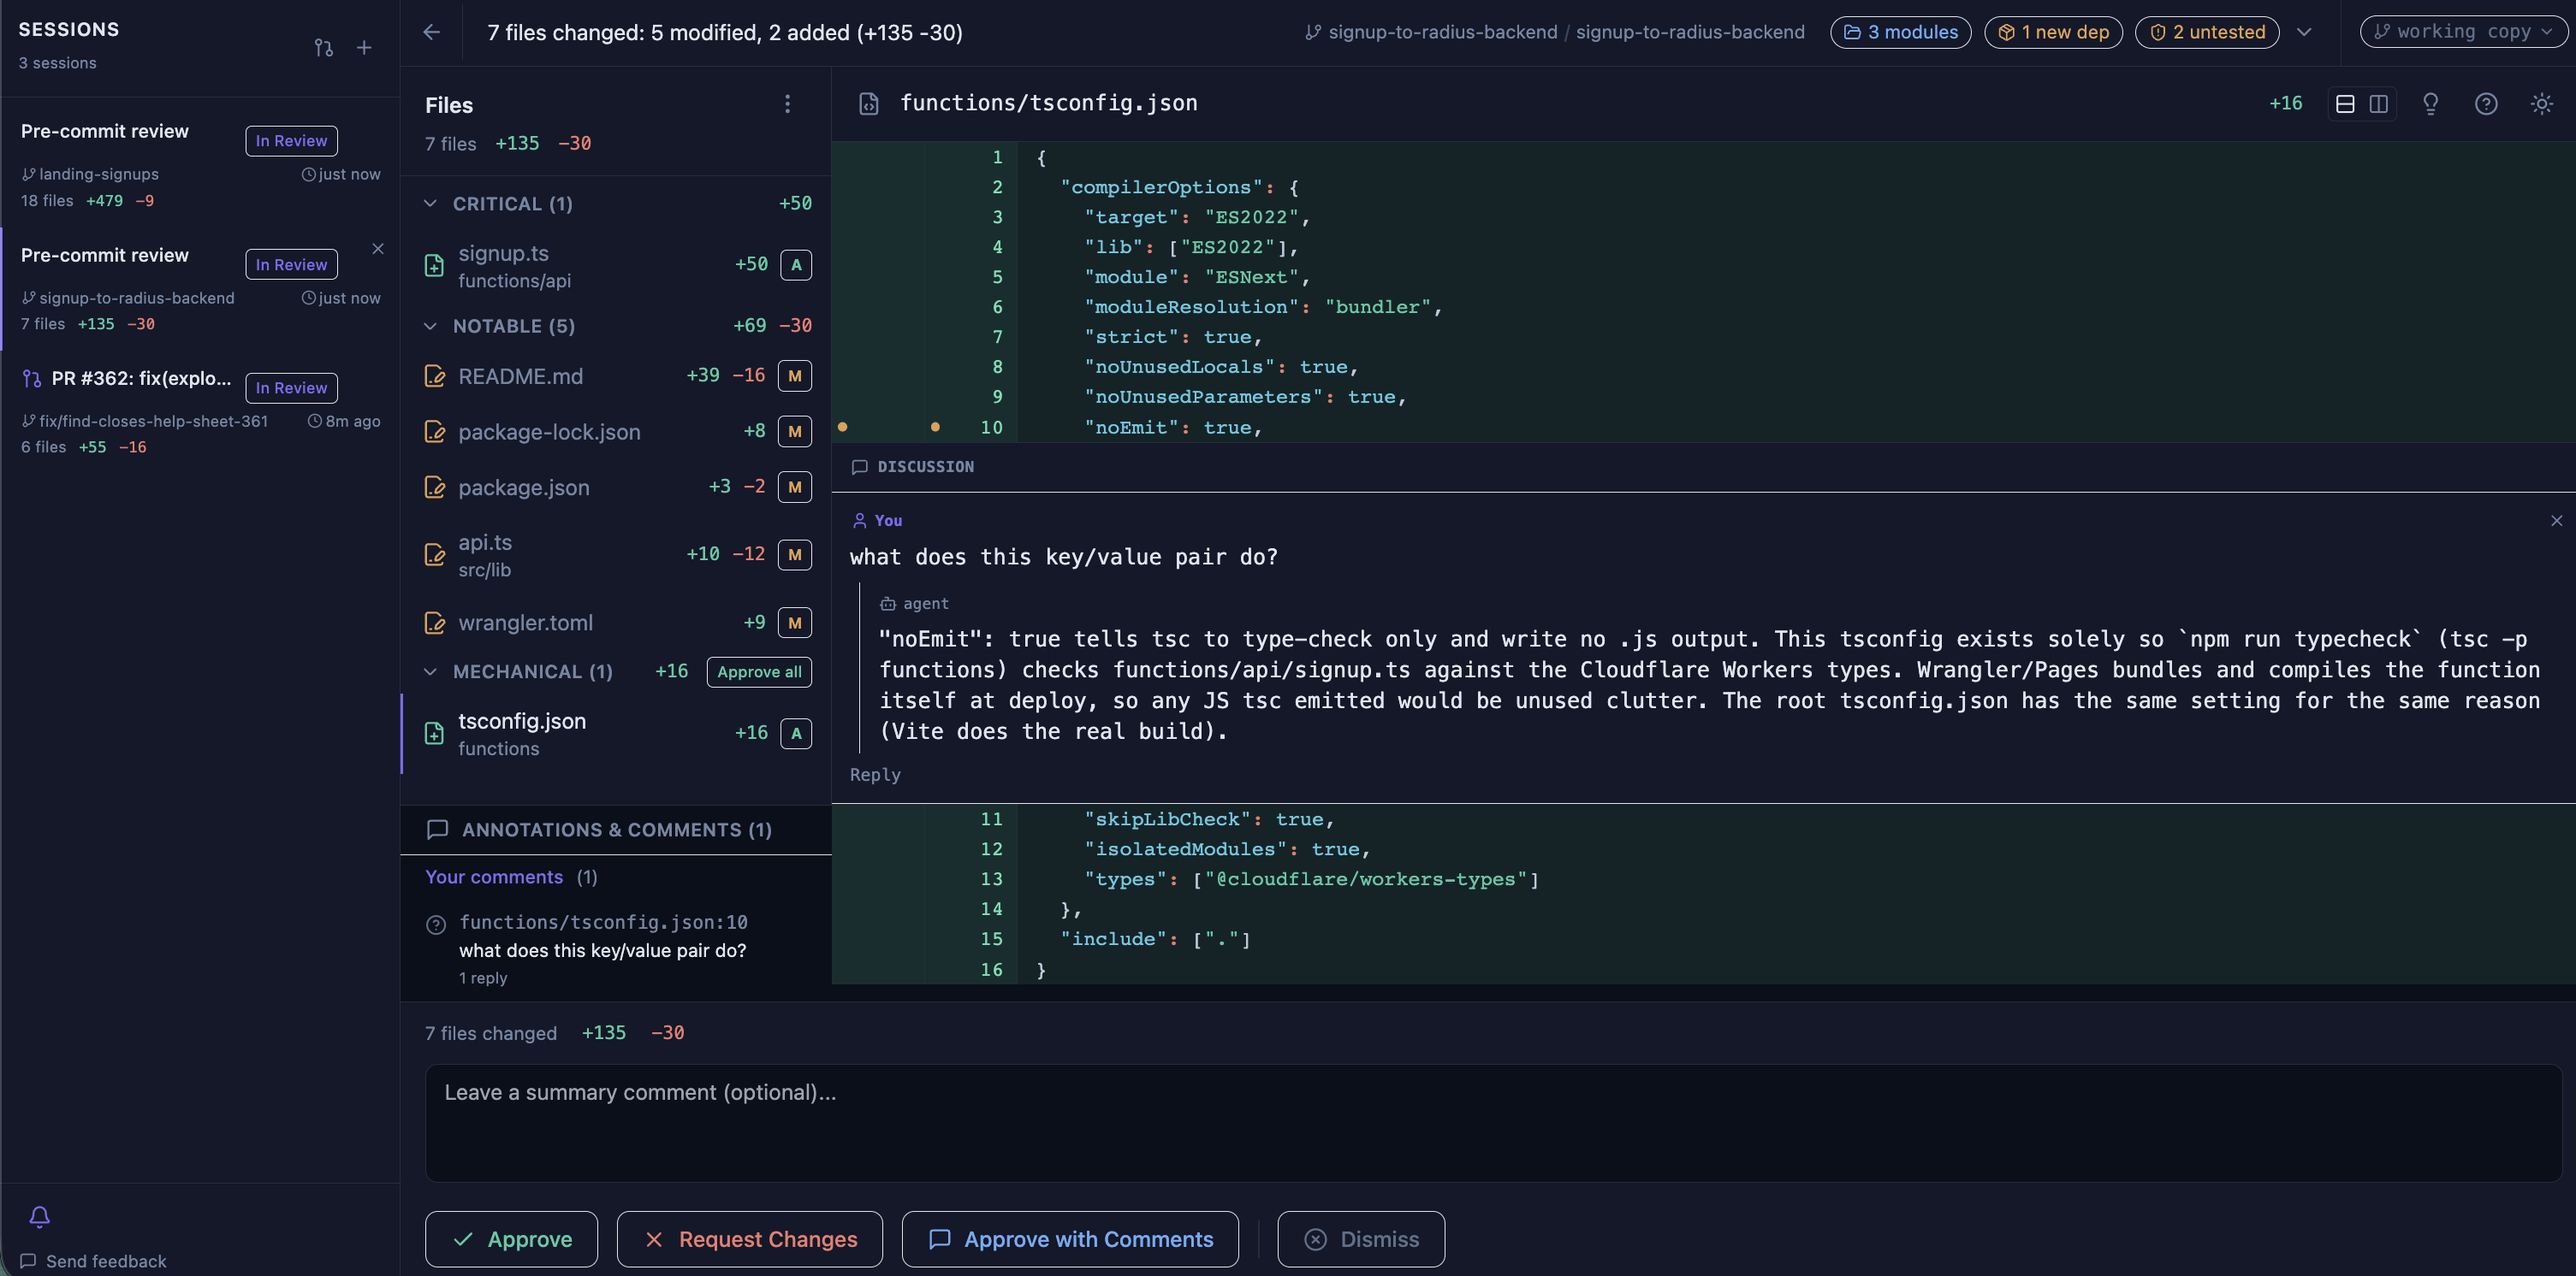
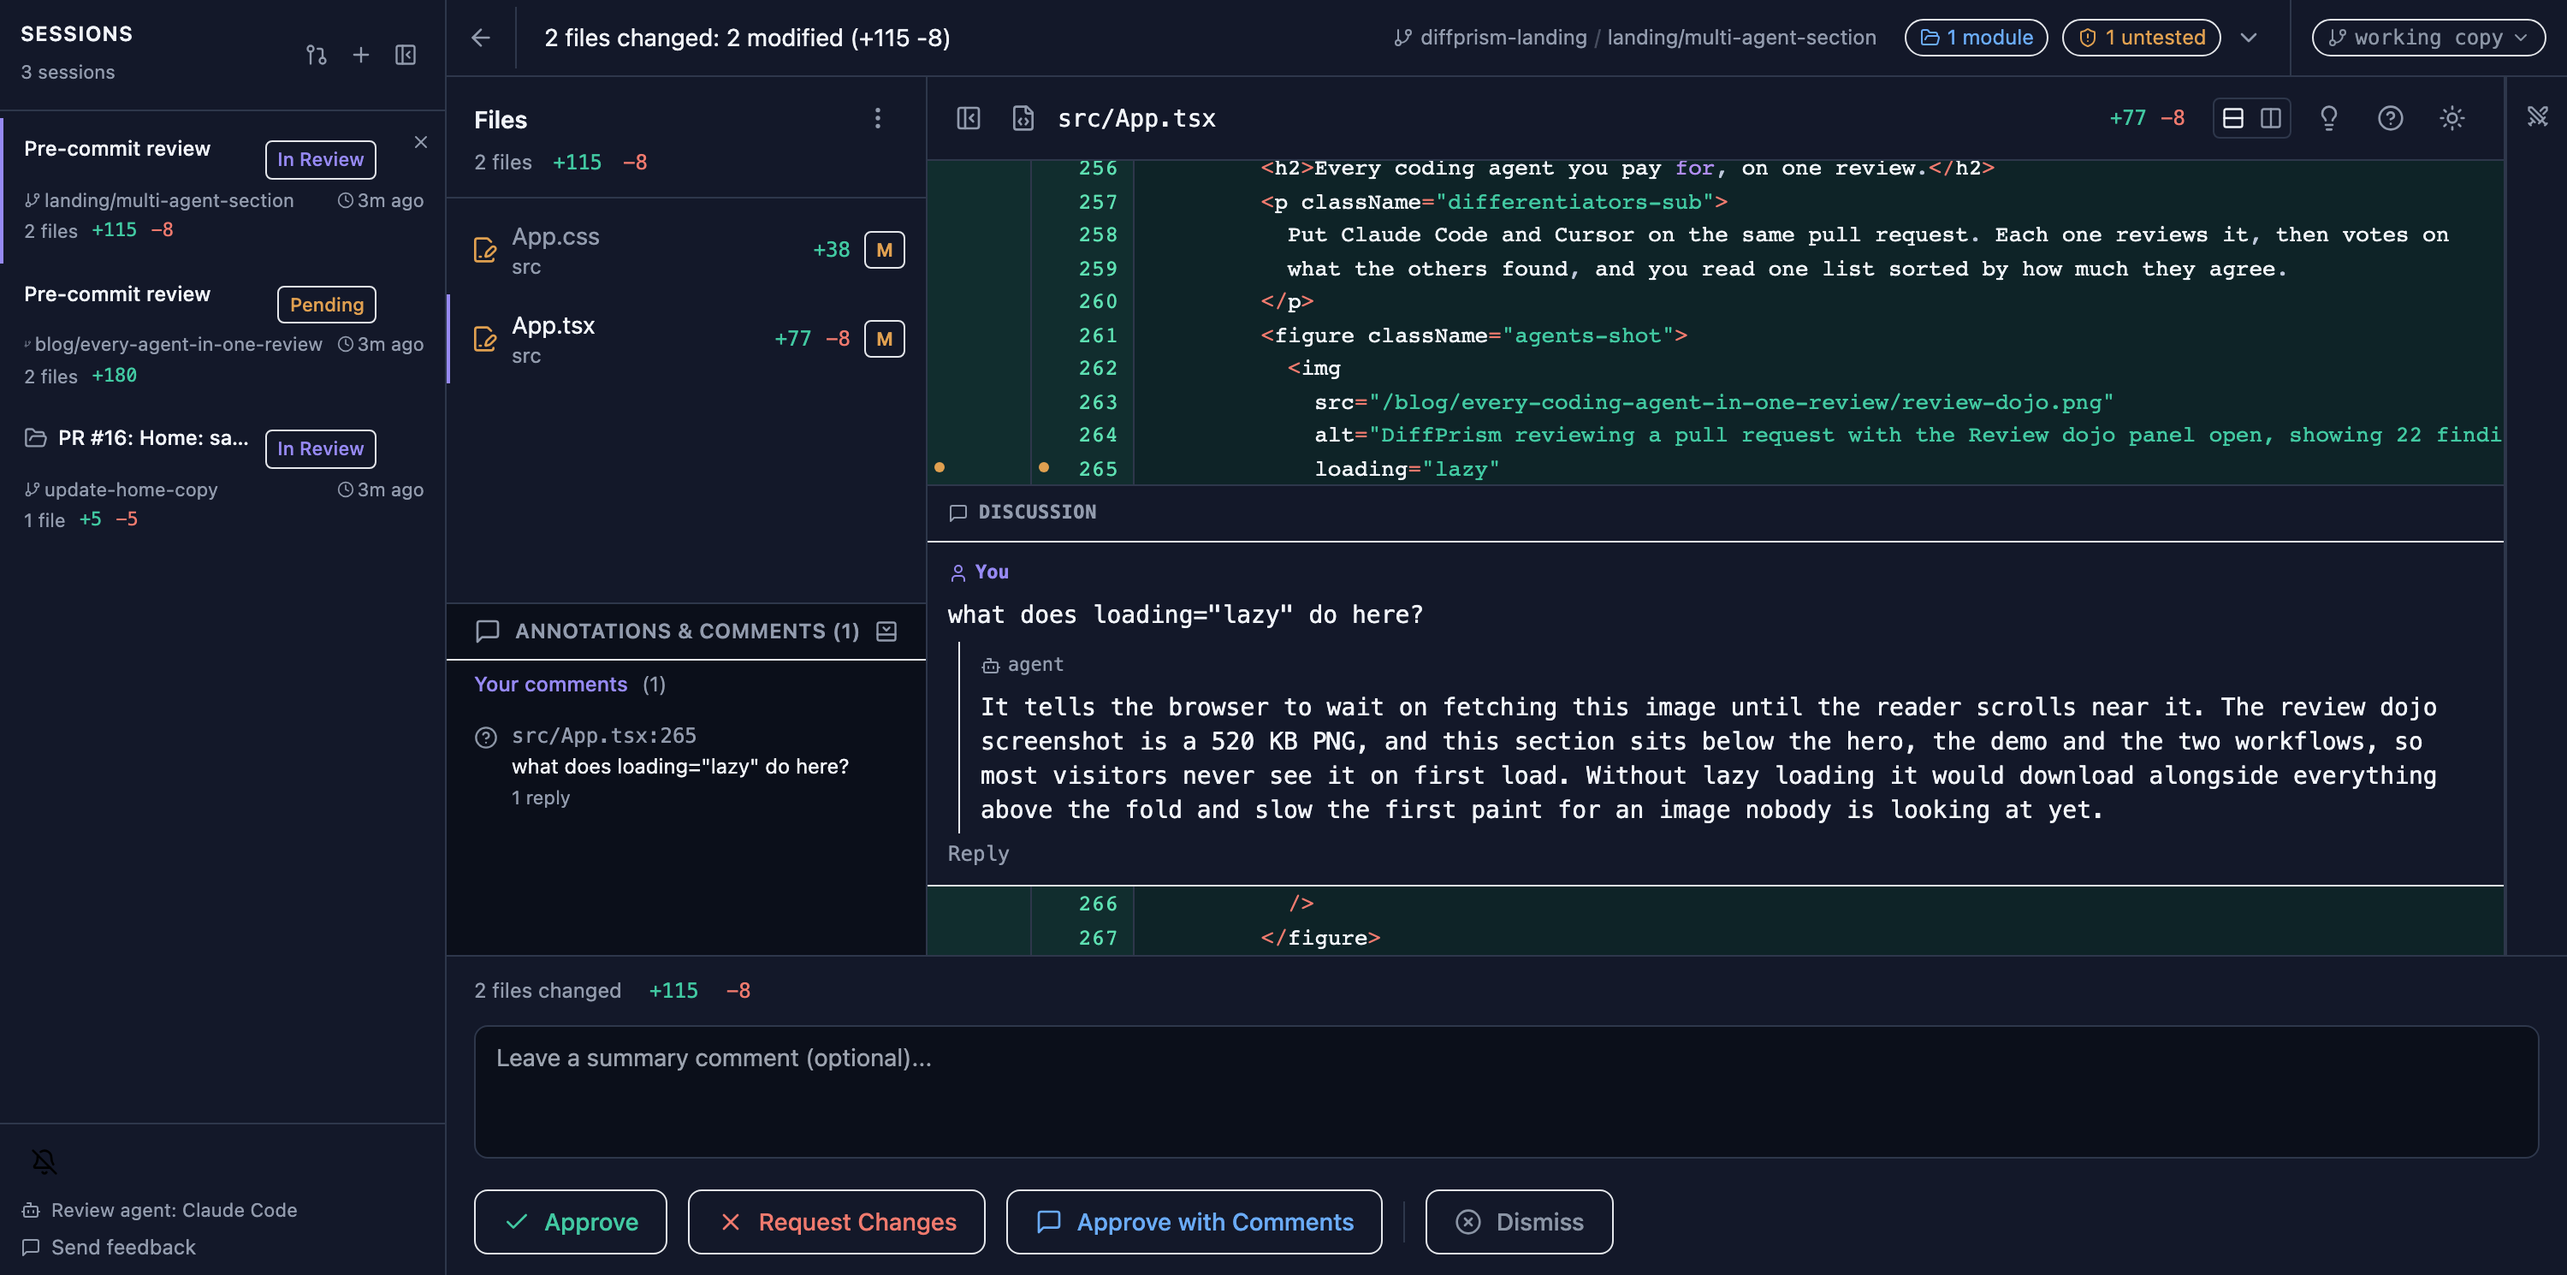
Blog: swap private Radius examples for public landing-page changes
The parallel-agents post showed a private repo's name, branches, paths
and code. Its screenshots and examples now come from this repo's own
public PRs (#13, #10, #16), captured on a real DiffPrism review.

diff --git a/src/blog/posts.tsx b/src/blog/posts.tsx
@@ -236,7 +236,7 @@ export const posts: BlogPost[] = [
           several reviews open, the review pane didn't say which branch you were
           looking at. We sent a decision to the wrong review while testing an
           earlier fix. Now the header shows the checkout and branch, like{" "}
-          <code>radius / main</code> (#162).
+          <code>diffprism-landing / main</code> (#162).
         </p>
         <p>
           There were also about nine ways to open a review, and they didn't
@@ -414,15 +414,16 @@ export const posts: BlogPost[] = [
         <p>
           My coding days don't look like one long session anymore. They look
           like three agents running at once while I do other stuff. Here's what
-          one of those days looked like in my Radius repo, with DiffPrism in the
-          loop.
+          that looks like with DiffPrism in the loop. The examples come from
+          this site's own repo, so every diff here is public on GitHub.
         </p>
 
         <h2>Plans First</h2>
         <p>
-          I opened Claude Code with three things on the list. A signup form on
-          the landing page. The backend that form needs. And a bug where opening
-          Find closed the help sheet.
+          I opened Claude Code with three things on the list. A section on the
+          home page for the review dojo. A blog post about it. And a fix to the
+          FAQ, which said your code never leaves your machine. That stopped
+          being true once an agent started answering your questions.
         </p>
         <p>
           I didn't start with code. I went task by task and made a plan with
@@ -486,9 +487,10 @@ export const posts: BlogPost[] = [
           private unless I tick the ones I want posted as inline comments.
         </p>
         <p>
-          The Find fix was already up as a pull request, so I opened it that
+          The FAQ fix was already up as a pull request, so I opened it that
           way. That meant the sidebar had both kinds at once. Two pre-commit
-          reviews for the signup work, and PR #362 for the Find fix. Same list,
+          reviews, one for the home page section and one for the blog post, and
+          PR #16 for the FAQ fix. Same list,
           same diff view, same threads. The review bar at the bottom is what
           changes, since one decision goes back to an agent and the other goes
           to GitHub.
@@ -507,31 +509,29 @@ export const posts: BlogPost[] = [
 
         <h2>Asking on the Line</h2>
         <p>
-          I clicked into the backend session first. The header gives a quick
-          briefing. Three modules touched, one new dependency, two untested
-          changes. The files are sorted by how much attention they need. The
-          signup endpoint was marked critical. The README and config changes
-          were notable. A new <code>tsconfig.json</code> was mechanical, and I
-          could've approved that whole group at once.
+          I clicked into the home page session first. The header gives a quick
+          briefing. One module touched, one untested change, and the checkout
+          and branch it came from. Two files, <code>App.tsx</code> and{" "}
+          <code>App.css</code>.
         </p>
         <p>
-          But one line in that tsconfig wasn't obvious to me,{" "}
-          <code>"noEmit": true</code>. So I left a comment on it asking what it
-          does.
+          But one line in the new section wasn't obvious to me,{" "}
+          <code>loading="lazy"</code> on the review dojo screenshot. So I left a
+          comment on it asking what it does.
         </p>
         <p>
           The agent was still waiting on my decision. My question interrupted
-          that wait, so it read the thread and answered right there.{" "}
-          <code>noEmit</code> tells <code>tsc</code> to type-check only and
-          write no JavaScript. The tsconfig only exists so{" "}
-          <code>npm run typecheck</code> can check the signup function against
-          the Cloudflare Workers types. Wrangler does the real build at deploy,
-          so anything <code>tsc</code> wrote out would just be clutter.
+          that wait, so it read the thread and answered right there. Lazy
+          loading tells the browser to hold off on fetching the image until
+          the reader scrolls near it. The screenshot is a 520 KB PNG, and the
+          section sits below the hero, the demo and the two workflows. Without
+          it, the image would download with everything above the fold and slow
+          the first paint for something nobody's looking at yet.
         </p>
         <figure className="blog-figure">
           <img
             src="/blog/parallel-agent-workflow/agent-reply.png"
-            alt="A pre-commit review in DiffPrism with a question on functions/tsconfig.json line 10 and the agent's reply explaining noEmit in the thread"
+            alt="A pre-commit review in DiffPrism with a question on src/App.tsx line 265 and the agent's reply explaining loading=&quot;lazy&quot; in the thread"
             loading="lazy"
           />
           <figcaption>
@@ -546,15 +546,16 @@ export const posts: BlogPost[] = [
           </p>
         </div>
         <p>
-          Then I switched over to PR #362. Threads work the same way there. A
-          block in <code>MapScreen.tsx</code> got deleted and I couldn't tell
-          why. So I asked on that line too, and the question sat there waiting
-          for the agent.
+          Then I switched over to PR #16. Threads work the same way there. The
+          answer to "Does my code leave my machine?" got rewritten, and I
+          wanted to know why. So I asked on that line too. I'd opened this one
+          with <code>--no-agent</code>, so nothing was listening. The thread
+          says so and gives me the one line to paste into Claude Code instead.
         </p>
         <figure className="blog-figure">
           <img
             src="/blog/parallel-agent-workflow/question-thread.png"
-            alt="A comment on a removed line in MapScreen.tsx asking why it was removed, waiting for the agent to reply"
+            alt="A comment on the rewritten FAQ answer in src/App.tsx asking why it changed. The thread notes no agent is listening and offers a prompt to paste into Claude Code."
             loading="lazy"
           />
           <figcaption>Same kind of thread, on a pull request.</figcaption>
@@ -562,14 +563,14 @@ export const posts: BlogPost[] = [
 
         <h2>Comments, Fixes, Approve</h2>
         <p>
-          Back in the backend review, I left a few more comments. Some
+          Back in the home page review, I left a few more comments. Some
           were questions and some were changes I wanted. Requested changes go
           straight back to the agent that made them. It makes the fixes, and the
           diff updates live while it works.
         </p>
         <p>
           Once the fixes looked right, I approved and the commit went through.
-          Then I went back to PR #362, and the review I submitted there landed
+          Then I went back to PR #16, and the review I submitted there landed
           on GitHub. Then I moved on to the next session in the sidebar.
         </p>
 
